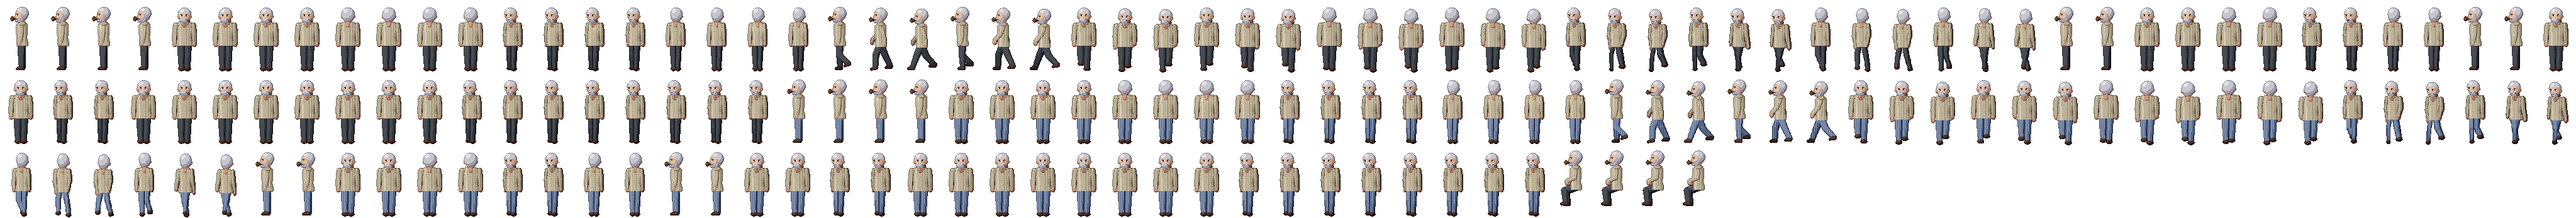
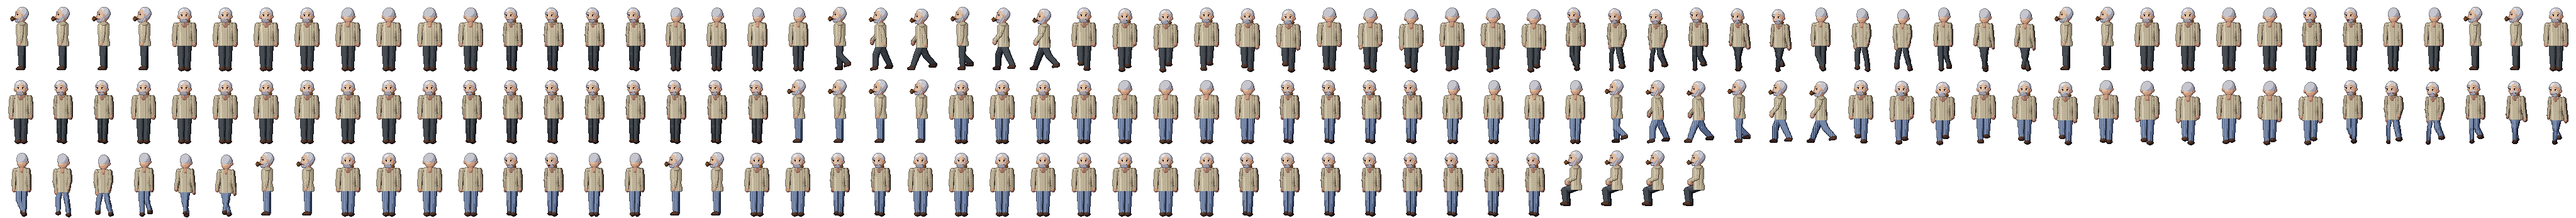
Ni un ou: en Bastida, amb el front i les celles a la vista, i el clatell d'esquena
El cabell blanc li baixava fins a les celles (blanques) i la barba li pujava fins al nas: de lluny, el cap era una
bola blanca. Ara té entrades, les celles grises, la barba només a la mandíbula i, d'esquena, es veuen el clatell i
les orelles. A draw_characters.py, en Bastida ja no surt amb el punt per anar-hi a l'esquerra (la 090 només ho
havia canviat al .character.json, i redibuixar-lo ho desfeia). Tasca 082.

diff --git a/games/ni-un-ou/adapters/benne/tools/hd/personatges.py b/games/ni-un-ou/adapters/benne/tools/hd/personatges.py
@@ -328,7 +328,7 @@ def bastida_hair(fg, p, spec):
     """Cabell blanc curt i barba blanca retallada; la pipa apagada a la boca."""
     hx, hy = p.head
     if p.f == 'L':
-        line = lambda x, y: (x >= hx - 2.0 or y <= hy - 4.8) and not (x < hx + 2.6 and y > hy - 1.2)
+        line = lambda x, y: (x >= hx - 0.4 or y <= hy - 6.0) and not (x < hx + 2.6 and y > hy - 1.2)
         fg.ell(hx + 1.4, hy - 1.4, 7.2, 7.2, HAIR_WHITE, 2.6, amp=1.6, clip=line)
         fg.poly([(hx + 2.6, hy + 1.0), (hx + 2.4, hy + 6.0), (hx - 1.0, hy + 9.0), (hx - 5.8, hy + 8.4),
                  (hx - 6.6, hy + 6.2), (hx - 3.0, hy + 5.4), (hx - 0.4, hy + 2.6)], HAIR_WHITE, 2.2,
@@ -339,15 +339,16 @@ def bastida_hair(fg, p, spec):
         fg.ell(hx - 10.4, hy + 5.0, 1.6, 2.2, PIPEW, 2.6, amp=1.2)
         fg.px(hx - 10.4, hy + 3.0, PIPEW, 0.4)
     elif p.f == 'D':
-        line = lambda x, y: y <= hy - 3.2 + ((x - hx) / 7) ** 2 * 4.0
-        fg.ell(hx, hy - 1.0, 7.4, 7.4, HAIR_WHITE, 2.6, amp=1.6, clip=line)
-        fg.ell(hx, hy + 6.0, 5.6, 3.6, HAIR_WHITE, 2.2, amp=1.2, clip=lambda x, y: y >= hy + 4.4)
+        # entrades: el front es veu (si no, cabell, celles i barba blancs fan del cap una bola)
+        line = lambda x, y: y <= hy - 5.6 + ((x - hx) / 5.2) ** 2 * 5.0
+        fg.ell(hx, hy - 1.6, 7.2, 6.8, HAIR_WHITE, 2.6, amp=1.6, clip=line)
+        fg.ell(hx, hy + 6.4, 5.2, 3.0, HAIR_WHITE, 1.8, amp=1.2, clip=lambda x, y: y >= hy + 5.0)
         fg.ell(hx - 2.0, hy + 3.8, 2.4, 1.0, HAIR_WHITE, 2.6, amp=1.0)
         fg.ell(hx + 2.0, hy + 3.8, 2.4, 1.0, HAIR_WHITE, 2.4, amp=1.0)
         fg.line(hx + 1.5, hy + 5.0, hx + 4.0, hy + 7.0, PIPEW, 1.0)
         fg.ell(hx + 4.6, hy + 7.0, 1.6, 2.0, PIPEW, 2.6, amp=1.2)
-    else:
-        fg.ell(hx, hy - 0.6, 7.4, 8.0, HAIR_WHITE, 2.6, amp=1.6)
+    else:                                        # d'esquena: el clatell i les orelles, que no sigui una bola
+        fg.ell(hx, hy - 1.0, 7.0, 7.4, HAIR_WHITE, 2.4, amp=1.6, clip=lambda x, y: y <= hy + 2.6)
 
 
 def bastida_over(fg, p, spec):
@@ -375,7 +376,7 @@ def bastida_over(fg, p, spec):
 
 
 BASTIDA = {
-    'skin': SKIN_OLD, 'legs': PYJAMA, 'top': JUMPER, 'shoes': BOOT, 'brow': (200, 196, 196), 'stoop': 2,
+    'skin': SKIN_OLD, 'legs': PYJAMA, 'top': JUMPER, 'shoes': BOOT, 'brow': (128, 120, 122), 'stoop': 2,
     'thin': -1,
     'hooks': {'hair': bastida_hair, 'over': bastida_over},
 }

diff --git a/games/ni-un-ou/adapters/benne/tools/draw_characters.py b/games/ni-un-ou/adapters/benne/tools/draw_characters.py
@@ -290,8 +290,9 @@ def secundari(cid, draw=None, outfits=('',)):
         tags.append(('Seu', [seu(), seu(), seu(), seu(True)]))
     anims = durations(tags, walk=(90, 80), extra={'Seu': 500})
     # Els que seuen (`Seu`) surten de perfil, mirant a l'esquerra: qui hi parla se'ls posa al davant,
-    # a un metre i mig (≈73 px de disseny), i no pas a l'esquena.
-    walk_x = 25 - 73 if cid in SEUEN else 44
+    # a un metre i mig (≈73 px de disseny), i no pas a l'esquena. En Bastida no: a la coberta de popa és dret a la
+    # vora, i el punt de l'esquerra queda darrere el bidó (tasca 090); el de per defecte el motor el posa a parlar.
+    walk_x = 25 - 73 if cid in SEUEN and cid != 'bastida' else 44
     write(cid, tags, (49, 87), {
         'walkSpeed': 70, 'walkToPoint': {'x': walk_x, 'y': 83}, 'talkPoint': {'x': 25, 'y': -2}, 'feet': {'x': 25, 'y': 83},
         'collider': {'points': [{'x': 15, 'y': 2}, {'x': 35, 'y': 2}, {'x': 37, 'y': 50}, {'x': 33, 'y': 85}, {'x': 16, 'y': 85}, {'x': 12, 'y': 50}]},
